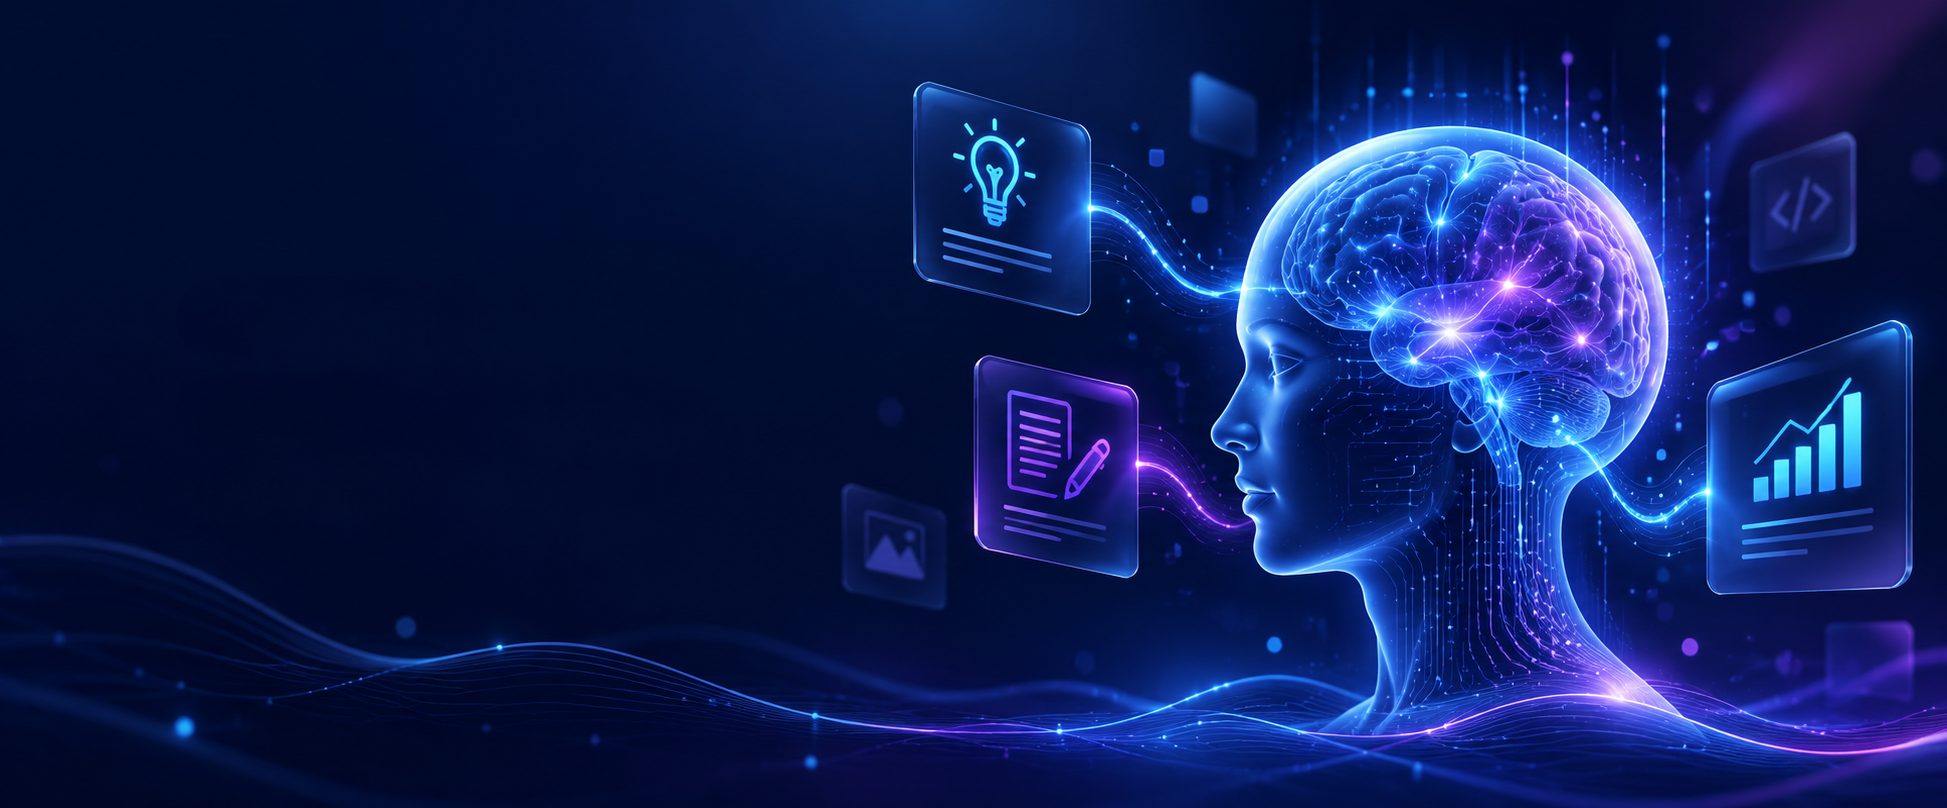
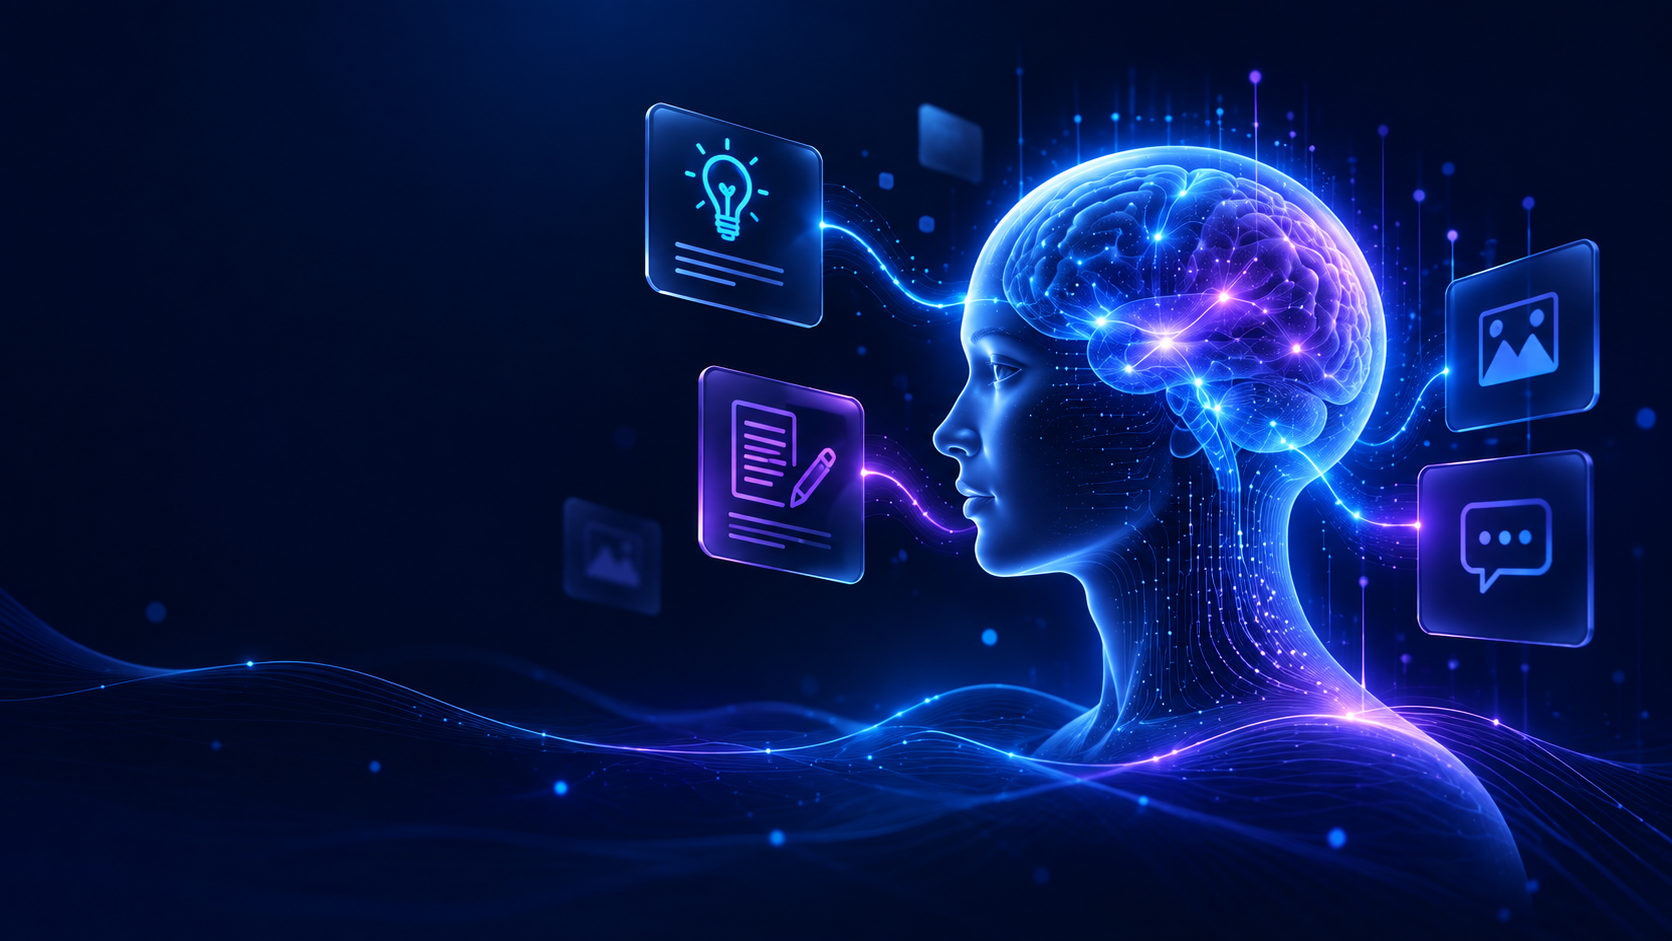
enhanced hero and course section images

diff --git a/src/features/offerings/components/course-detail-view.tsx b/src/features/offerings/components/course-detail-view.tsx
@@ -1,5 +1,4 @@
 import Link from "next/link";
-import Image from "next/image";
 import {
   Check,
   X,
@@ -20,6 +19,7 @@ import { formatPrice } from "@/lib/utils";
 import { siteConfig } from "@/config/site";
 import { Section } from "@/components/shared/section";
 import { Container } from "@/components/shared/container";
+import { HeroFeatheredImage } from "@/components/shared/hero-feathered-image";
 import { Badge } from "@/components/ui/badge";
 import { Button } from "@/components/ui/button";
 import { Card, CardContent } from "@/components/ui/card";
@@ -300,24 +300,23 @@ function CourseDetailView({
             </ul>
           </div>
 
-          <div className="lg:w-[45%]">
-            <div className="border-ink-border-strong relative aspect-[16/10] w-full overflow-hidden rounded-2xl border bg-white/[0.04]">
-              {heroImage ? (
-                <Image
-                  src={heroImage}
-                  alt={`${offering.title} course preview`}
-                  fill
-                  priority
-                  sizes="(max-width: 1024px) 100vw, 45vw"
-                  className="object-cover"
-                />
-              ) : (
-                <div className="text-ink-muted-foreground flex size-full flex-col items-center justify-center gap-2">
-                  <PlayCircle className="size-10" aria-hidden="true" />
-                  <span className="text-sm">Course preview coming soon</span>
-                </div>
-              )}
-            </div>
+          {/* Bleeds slightly past the content column on large screens so the artwork reads as part of the section, not an inset panel. */}
+          <div className="lg:-mr-6 lg:w-[48%] xl:-mr-12">
+            {heroImage ? (
+              <HeroFeatheredImage
+                src={heroImage}
+                alt={`${offering.title} course preview`}
+                priority
+                sizes="(max-width: 1024px) 100vw, 48vw"
+                className="aspect-[16/10]"
+              />
+            ) : (
+              // Only the placeholder keeps a frame - there's no artwork to blend into the section.
+              <div className="border-ink-border-strong text-ink-muted-foreground flex aspect-[16/10] w-full flex-col items-center justify-center gap-2 rounded-2xl border bg-white/[0.04]">
+                <PlayCircle className="size-10" aria-hidden="true" />
+                <span className="text-sm">Course preview coming soon</span>
+              </div>
+            )}
           </div>
         </Container>
       </Section>

diff --git a/src/components/shared/hero-feathered-image.tsx b/src/components/shared/hero-feathered-image.tsx
@@ -1,0 +1,71 @@
+import Image from "next/image";
+
+import { cn } from "@/lib/utils";
+
+/**
+ * Feathers the artwork's edges into whatever sits behind it, so a hero
+ * visual reads as part of the section rather than a picture in a frame.
+ *
+ * A mask, not a gradient *overlay*: an overlay tints the subject on its
+ * way to hiding the edges, while a mask makes the outer pixels genuinely
+ * transparent and leaves the subject untouched.
+ *
+ * Two directional gradients intersected, rather than one radial vignette.
+ * A radial centred on the subject also eats the opposite corners - in the
+ * training artwork that corner holds the laptop and its headline text, and
+ * in the course artwork it holds the neural glow. Fading only the four
+ * outer edges dissolves the background into the navy while leaving
+ * everything in the middle - subject, laptop, glow - fully crisp. The left
+ * edge (the one facing the headline) gets the longest ramp.
+ *
+ * Degrades gracefully in layers: without `mask-composite` the two masks
+ * simply union (slightly less fade), and without `mask-image` at all the
+ * full image renders - a far softer failure than a visible card.
+ */
+const MASK_HORIZONTAL =
+  "linear-gradient(to right, transparent 0%, rgba(0,0,0,0.5) 7%, #000 19%, #000 91%, transparent 100%)";
+const MASK_VERTICAL =
+  "linear-gradient(to bottom, transparent 0%, #000 8%, #000 90%, transparent 100%)";
+const FEATHER_MASK = `${MASK_HORIZONTAL}, ${MASK_VERTICAL}`;
+
+function HeroFeatheredImage({
+  src,
+  alt,
+  priority = false,
+  sizes,
+  className,
+  /** Which part of the artwork to hold onto when the frame crops it - matters most on mobile. */
+  objectPosition = "65% 50%",
+}: {
+  src: string;
+  alt: string;
+  priority?: boolean;
+  sizes: string;
+  className?: string;
+  objectPosition?: string;
+}) {
+  return (
+    <div
+      className={cn("relative w-full", className)}
+      style={{
+        WebkitMaskImage: FEATHER_MASK,
+        maskImage: FEATHER_MASK,
+        // Keep only what BOTH gradients keep, so all four edges feather.
+        WebkitMaskComposite: "source-in",
+        maskComposite: "intersect",
+      }}
+    >
+      <Image
+        src={src}
+        alt={alt}
+        fill
+        priority={priority}
+        sizes={sizes}
+        className="object-cover"
+        style={{ objectPosition }}
+      />
+    </div>
+  );
+}
+
+export { HeroFeatheredImage };

diff --git a/src/components/sections/training-hero.tsx b/src/components/sections/training-hero.tsx
@@ -1,9 +1,9 @@
 import Link from "next/link";
-import Image from "next/image";
 import { Users, Infinity as InfinityIcon, Award, Briefcase } from "lucide-react";
 
 import { Section } from "@/components/shared/section";
 import { Container } from "@/components/shared/container";
+import { HeroFeatheredImage } from "@/components/shared/hero-feathered-image";
 import { Button } from "@/components/ui/button";
 
 /**
@@ -82,17 +82,18 @@ function TrainingHero() {
           </div>
         </div>
 
-        <div className="w-full lg:w-[48%]">
-          <div className="border-ink-border-strong relative aspect-[16/10] w-full overflow-hidden rounded-2xl border bg-white/[0.04]">
-            <Image
-              src={HERO_IMAGE_SRC}
-              alt="A student building real projects on a laptop as part of a Stively training program"
-              fill
-              priority
-              sizes="(max-width: 1024px) 100vw, 48vw"
-              className="object-cover"
-            />
-          </div>
+        {/* Bleeds slightly past the content column on large screens so the artwork reads as part of the section, not an inset panel. */}
+        <div className="w-full lg:w-[52%] lg:-mr-6 xl:-mr-12">
+          <HeroFeatheredImage
+            src={HERO_IMAGE_SRC}
+            alt="A student building real projects on a laptop as part of a Stively training program"
+            priority
+            sizes="(max-width: 1024px) 100vw, 52vw"
+            // Source artwork is 1371x1148 (~5:4) - matching it keeps the
+            // student's head and the laptop headline out of the crop.
+            className="aspect-[4/3] lg:aspect-[5/4]"
+            objectPosition="55% 50%"
+          />
         </div>
       </Container>
     </Section>
